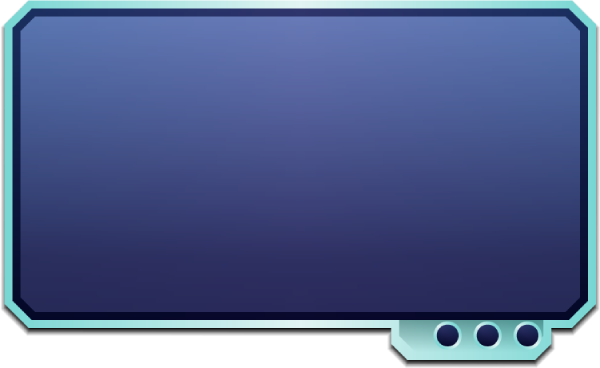
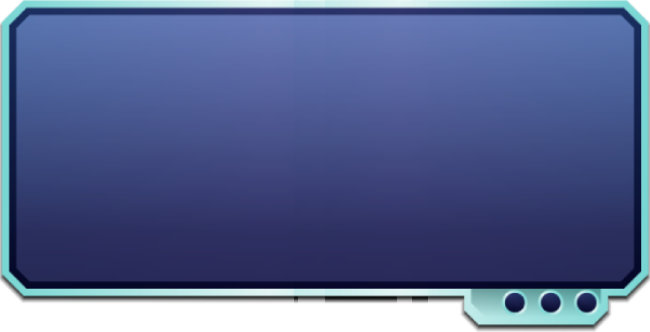
:construction: add box in PresetSelection Scene

Changed region(s): [[0.0, 0.0, 1.0, 1.0], [0.45, 0.0, 0.54, 0.0301], [0.6, 0.0, 0.66, 0.0301]]

diff --git a/src/Prefabs/SettingsPrefabs.cpp b/src/Prefabs/SettingsPrefabs.cpp
@@ -230,12 +230,6 @@ std::shared_ptr<is::ecs::Entity> is::prefabs::GlobalPrefabs::createPresetSelecti
         "Indie Studio",
         0, 0, true
     ).layer = -9999;
-    e->addComponent<is::components::ImageComponent>(
-        e,
-        RESSOURCE("ui/PresetSelection/Box.png"),
-        "Indie Studio",
-        0, 0, true
-    ).layer = 1;
     e->addComponent<ButtonComponent>(
         e,
         "",
@@ -261,5 +255,73 @@ std::shared_ptr<is::ecs::Entity> is::prefabs::GlobalPrefabs::createPresetSelecti
         RESSOURCE("ui/PresetSelection/Return_BTN.png"),
         RESSOURCE("ui/PresetSelection/Return_BTN_pressed.png")
     ).layer = 2;
+    e->addComponent<is::components::ImageComponent>(
+        e,
+        RESSOURCE("ui/PresetSelection/Box.png"),
+        "Indie Studio",
+        100, 180, true
+    ).layer = 1;
+    e->addComponent<is::components::ImageComponent>(
+        e,
+        RESSOURCE("ui/PresetSelection/Box.png"),
+        "Indie Studio",
+        is::components::WindowComponent::_width / 2 + 50, 180, true
+    ).layer = 1;
+    e->addComponent<is::components::ImageComponent>(
+        e,
+        RESSOURCE("ui/PresetSelection/Box.png"),
+        "Indie Studio",
+        100, 540, true
+    ).layer = 1;
+    e->addComponent<is::components::ImageComponent>(
+        e,
+        RESSOURCE("ui/PresetSelection/Box.png"),
+        "Indie Studio",
+        is::components::WindowComponent::_width / 2 + 50, 540, true
+    ).layer = 1;
+    e->addComponent<is::components::TextComponent>(
+        e,
+        "Player 1",
+        "Indie Studio",
+        338, 200,
+        150, 40,
+        false,
+        true,
+        RESSOURCE("fonts/fontVolumeSettings/fontVolumeSettings.xml"),
+        irr::video::SColor(255, 255, 255, 255)
+    ).layer = 4;
+    e->addComponent<is::components::TextComponent>(
+        e,
+        "Player 3",
+        "Indie Studio",
+        338, 560,
+        150, 40,
+        false,
+        true,
+        RESSOURCE("fonts/fontVolumeSettings/fontVolumeSettings.xml"),
+        irr::video::SColor(255, 255, 255, 255)
+    ).layer = 4;
+    e->addComponent<is::components::TextComponent>(
+        e,
+        "Player 2",
+        "Indie Studio",
+        is::components::WindowComponent::_width / 2 + 288, 200,
+        150, 40,
+        false,
+        true,
+        RESSOURCE("fonts/fontVolumeSettings/fontVolumeSettings.xml"),
+        irr::video::SColor(255, 255, 255, 255)
+    ).layer = 4;
+    e->addComponent<is::components::TextComponent>(
+        e,
+        "Player 4",
+        "Indie Studio",
+        is::components::WindowComponent::_width / 2 + 288, 560,
+        150, 40,
+        false,
+        true,
+        RESSOURCE("fonts/fontVolumeSettings/fontVolumeSettings.xml"),
+        irr::video::SColor(255, 255, 255, 255)
+    ).layer = 4;
     return e;
 }
